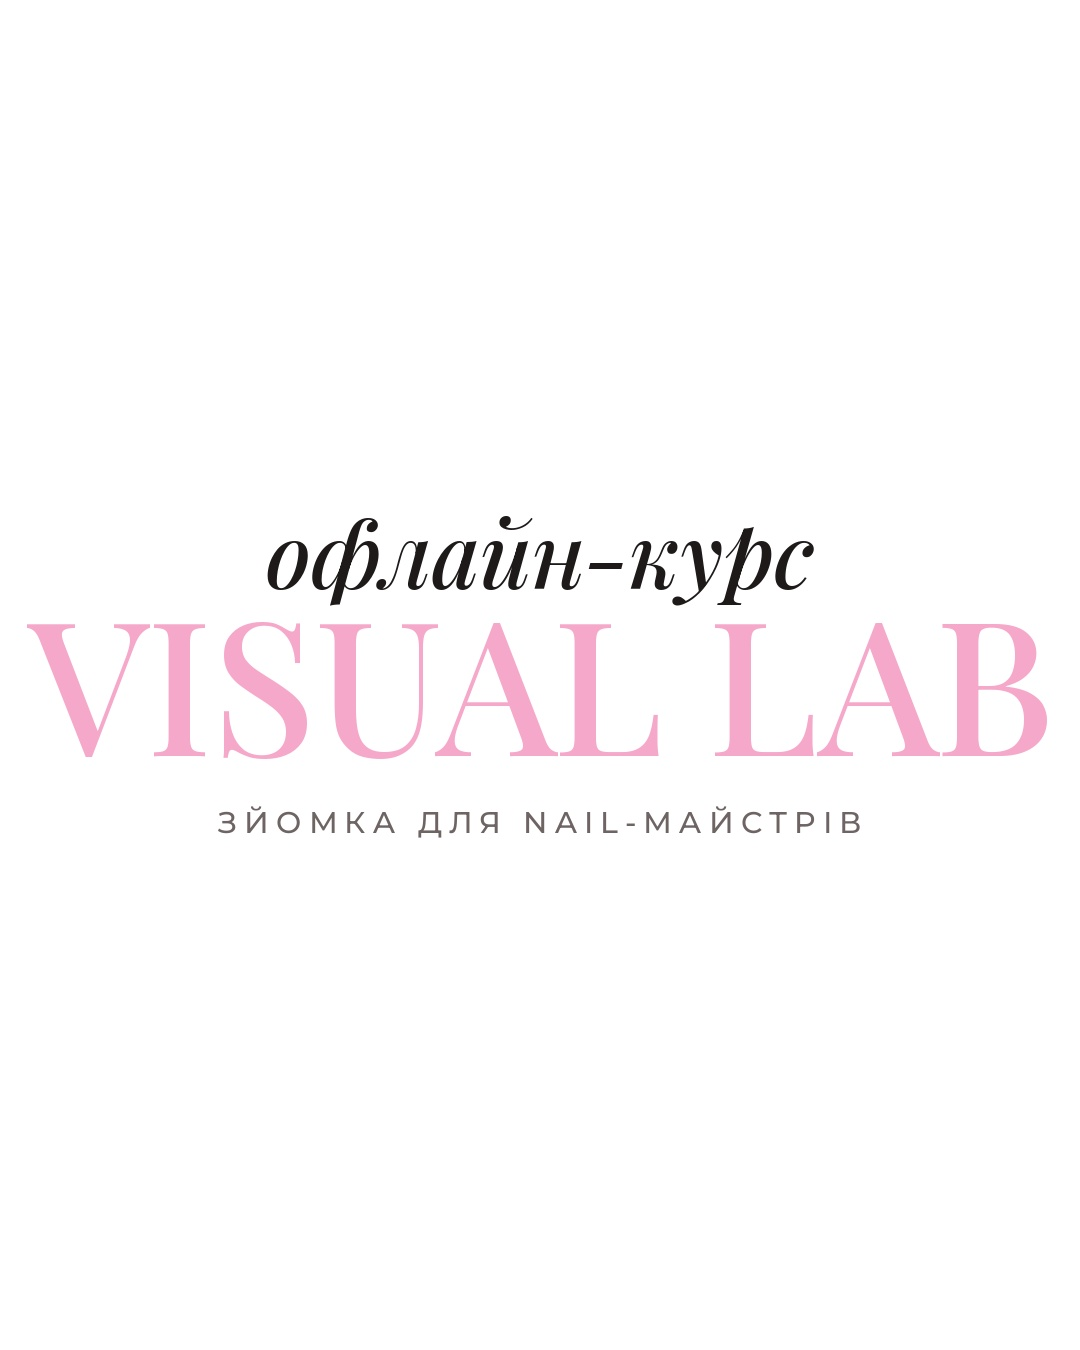
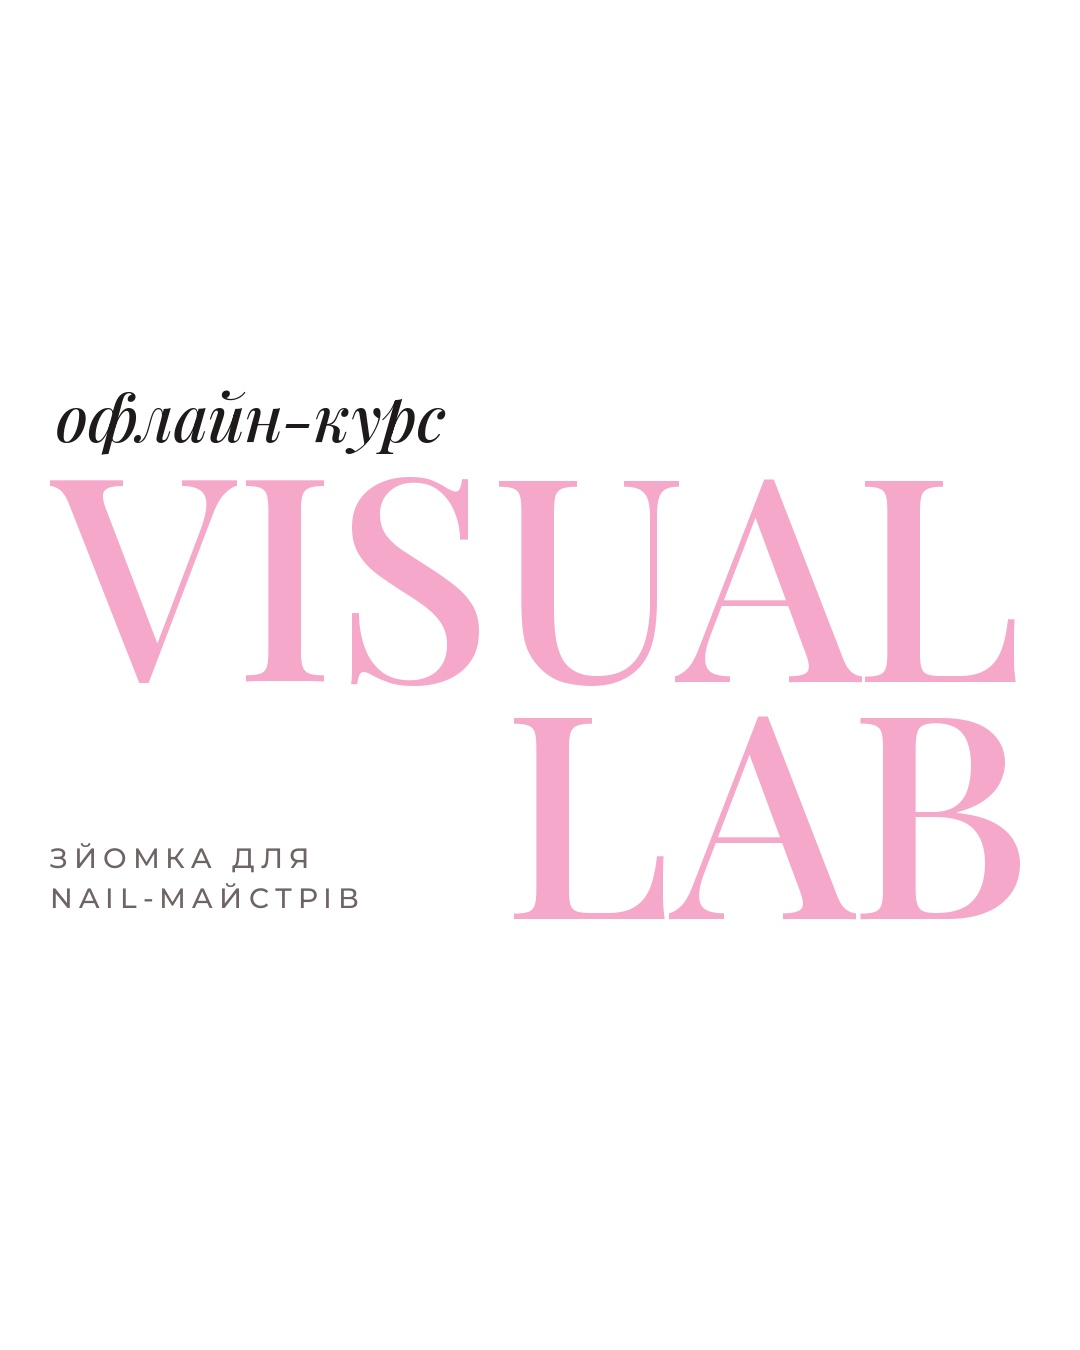
Visual Lab cover: stacked VISUAL / LAB layout
Claude-Session: https://claude.ai/code/session_0191xVL2hi5vHUvM1ix6pauC

diff --git a/styl/cover_visual_lab.py b/styl/cover_visual_lab.py
@@ -1,21 +1,29 @@
 import sys
 from PIL import Image, ImageDraw, ImageFont
 R,out=sys.argv[1:3]
-W,H=1080,1350; PINK=(246,168,202); DARK=(30,26,26); GREY=(110,100,100)
+W,H=1080,1350; PINK=(246,168,202); DARK=(30,26,26); GREY=(110,100,100); M=50
 def F(n,s,w):
     f=ImageFont.truetype(f'{R}/styl/fonts/{n}',s); f.set_variation_by_axes([w]); return f
 im=Image.new('RGB',(W,H),(255,255,255)); d=ImageDraw.Draw(im)
-sz=300
+sz=400
 while True:
-    big=F('PlayfairDisplay-wght.ttf',sz,500); bb=d.textbbox((0,0),'VISUAL LAB',font=big)
-    if bb[2]-bb[0]<=W-50: break
+    big=F('PlayfairDisplay-wght.ttf',sz,500); bb=d.textbbox((0,0),'VISUAL',font=big)
+    if bb[2]-bb[0]<=W-2*M: break
     sz-=2
-it=F('PlayfairDisplay-Italic%5Bwght%5D.ttf',90,500); t='офлайн-курс'; tb=d.textbbox((0,0),t,font=it)
-sub='ЗЙОМКА ДЛЯ NAIL-МАЙСТРІВ'; sf=F('Montserrat%5Bwght%5D.ttf',30,500); sp=7
-th=(tb[3]-tb[1])+16+(bb[3]-bb[1])+44+30
-y=(H-th)//2
-d.text(((W-(tb[2]-tb[0]))/2-tb[0],y-tb[1]),t,font=it,fill=DARK); y+=(tb[3]-tb[1])+16
-d.text(((W-(bb[2]-bb[0]))/2-bb[0],y-bb[1]),'VISUAL LAB',font=big,fill=PINK); y+=(bb[3]-bb[1])+44
-tw=sum(d.textlength(c,font=sf) for c in sub)+sp*(len(sub)-1); x=(W-tw)/2
-for c in sub: d.text((x,y),c,font=sf,fill=GREY); x+=d.textlength(c,font=sf)+sp
+lb=d.textbbox((0,0),'LAB',font=big)
+it=F('PlayfairDisplay-Italic%5Bwght%5D.ttf',64,500); t='офлайн-курс'; tb=d.textbbox((0,0),t,font=it)
+sub='ЗЙОМКА ДЛЯ NAIL-МАЙСТРІВ'; sf=F('Montserrat%5Bwght%5D.ttf',28,500); sp=6
+vh=bb[3]-bb[1]; lh=lb[3]-lb[1]; gap=30
+total=(tb[3]-tb[1])+22+vh+gap+lh
+y=(H-total)//2-20
+d.text((M-bb[0]+4,y-tb[1]),t,font=it,fill=DARK); y+=(tb[3]-tb[1])+22
+d.text((M-bb[0],y-bb[1]),'VISUAL',font=big,fill=PINK); y+=vh+gap
+lx=W-M-(lb[2]-lb[0])-lb[0]; d.text((lx,y-lb[1]),'LAB',font=big,fill=PINK)
+# subtitle left of LAB, aligned to LAB baseline area
+words=['ЗЙОМКА ДЛЯ','NAIL-МАЙСТРІВ']; ty=y+lh-2*40
+for wv in words:
+    x=M
+    for c in wv: d.text((x,ty),c,font=sf,fill=GREY); x+=d.textlength(c,font=sf)+sp
+    ty+=40
+print('size',sz)
 im.save(out,quality=95)
